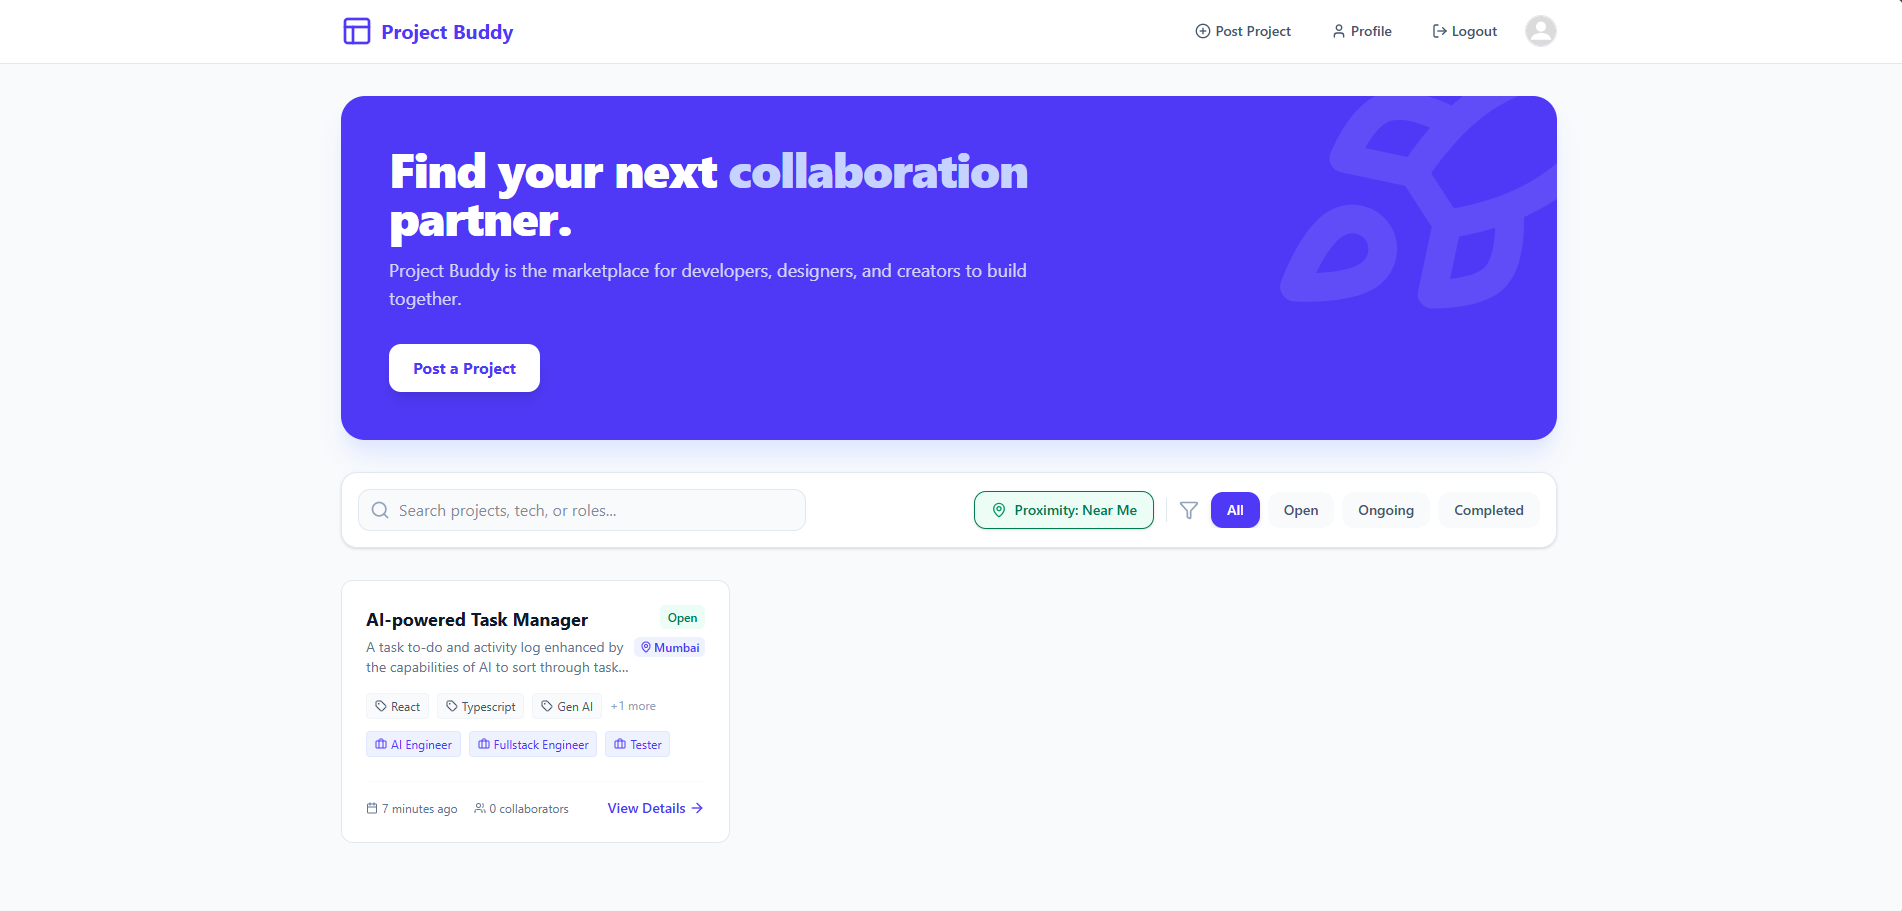
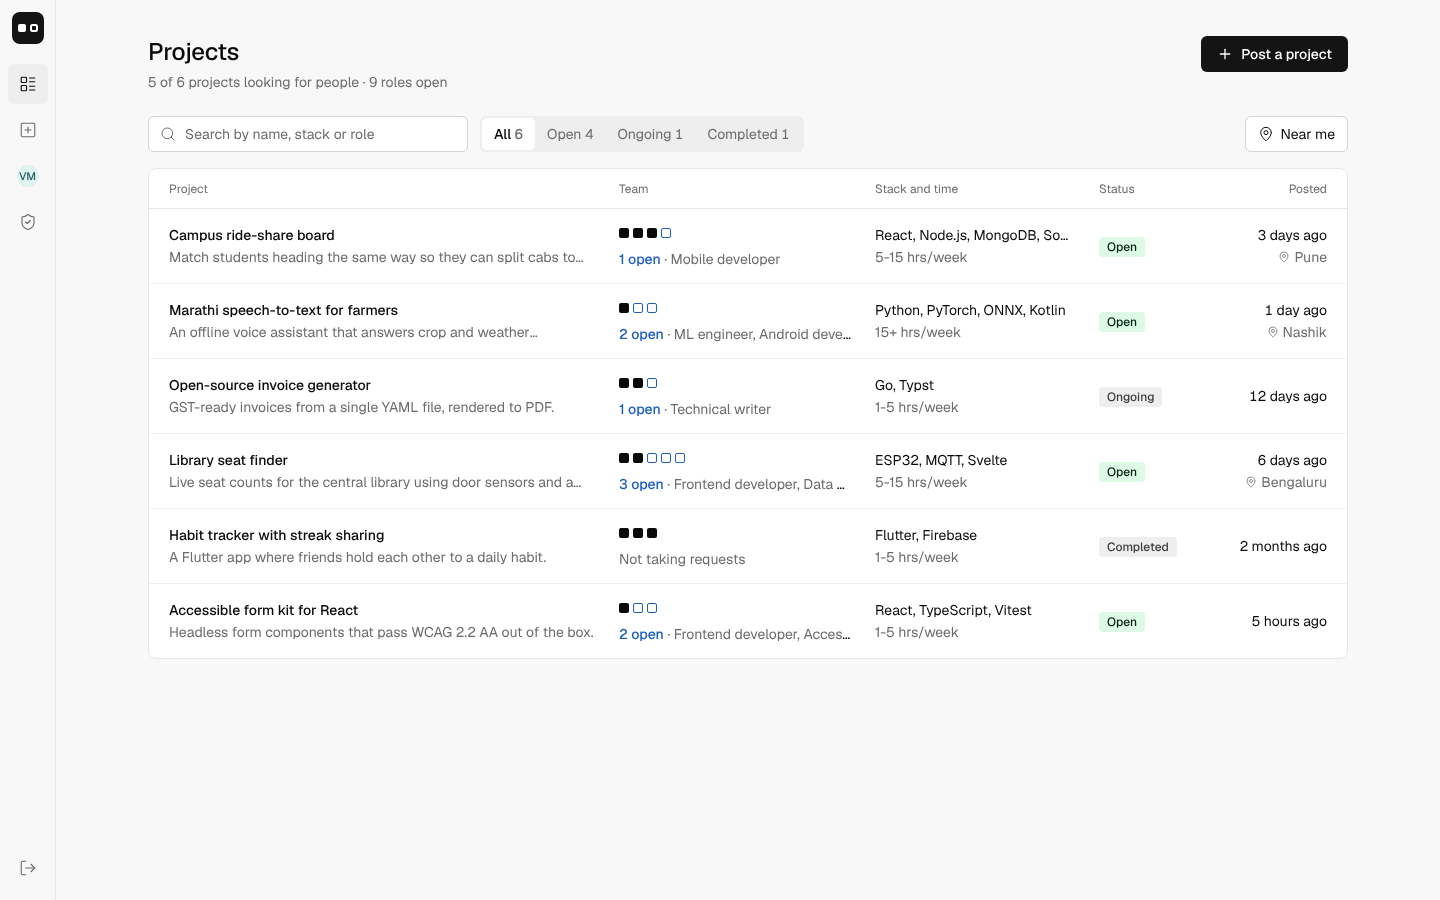
Update README for the redesign
- Replace screenshots with the new interface and add sign-in and phone views
- Describe the team panel, requests to join, progress log and admin page
- Correct details that had drifted: Socket.IO rather than native
  WebSockets, photo upload from a file, search and filter options,
  registration rate limit, and the frontend stack

diff --git a/README.md b/README.md
@@ -1,200 +1,178 @@
 # Project Buddy
 
-A full-stack developer collaboration platform for discovering projects,
-finding collaborators, communicating in real time, and tracking project
-progress.
+A full-stack collaboration platform where developers post side projects,
+find people to build them with, talk in real time, and track progress.
 
 **Live Demo:** https://projectbuddy-dzn3.onrender.com
 
 **GitHub:** https://github.com/VirajM723/ProjectBuddy
 
+![Project list](README_assets/dashboard.png)
+
 ------------------------------------------------------------------------
 
 ## Overview
 
-Project Buddy is a web application designed to help developers connect
-and collaborate on software projects. Users can create projects, find
-collaborators, communicate through project-specific chat, manage
-milestones, and track contributions from a single platform.
+Project Buddy helps developers connect and collaborate on software
+projects. Owners post a project with the roles they need; other users
+browse the list, ask to join, and once accepted, work together through a
+project chat and a shared progress log. Every contribution feeds a
+profile heatmap, and skills can be endorsed by teammates.
 
-The application also includes location-based project discovery, activity
-tracking, and backend protections against spam and abuse.
+The app also supports location-based discovery, and the backend
+protects itself against spam and abuse with rate limiting.
 
 ## Features
 
 ### Authentication
 
-Project Buddy uses JWT-based authentication to secure user sessions.
-
--   Register and log in using email and password
--   Secure password hashing with bcrypt
--   Protected routes using JWT
--   Role-based authorization
--   Default profile picture assigned during registration
--   Upload a custom profile picture at any time
+-   Register and sign in with email and password
+-   Passwords hashed with bcrypt
+-   JWT-protected API routes, with the session restored on page reload
+-   Role-based access (members and admins)
 
 ------------------------------------------------------------------------
 
-### Project Management
+### Projects
 
-Create projects and manage collaborators from a single dashboard.
-
--   Create and edit projects
--   Add descriptions, required skills, tech stack, and commitment level
--   Search projects by title, description, creator, tags, or
-    technologies
--   Filter projects based on skills, tech stack, location, and
-    commitment
--   Browse projects posted by the community
+-   Post and edit projects: title, summary, Markdown description, tech
+    stack, the roles you need, weekly time commitment and project type
+-   Search by title, summary, tech stack or role
+-   Filter by status (open, ongoing, completed) and by distance with
+    **Near me**
+-   Every project shows its team at a glance: filled squares for
+    members, outlined squares for roles nobody has taken yet
 
 ------------------------------------------------------------------------
 
-### Collaboration System
+### Joining a Team
 
-Users can apply to projects and project owners can manage incoming
-applications.
-
--   Send collaboration requests
--   Accept or reject applicants
--   Manage project members
--   Keep track of team composition
-
-------------------------------------------------------------------------
-
-### Real-Time Project Chat
-
-Each project includes a dedicated chat room powered by native
-WebSockets.
-
--   Instant messaging between collaborators
--   Project-specific conversations
--   Messages are stored in MongoDB for future access
--   Automatically synchronizes conversations across connected users
+-   Ask to join with a message to the owner
+-   Owners see waiting requests at the top of the project page and can
+    accept or decline them
+-   The team panel lists the owner, each member with their role, and the
+    roles that are still open
+-   Members set their own role on each project from their profile
 
 ------------------------------------------------------------------------
 
-### Live Activity Feed
+### Team Chat
 
-Every project maintains an activity feed that updates in real time.
+Each project has a chat room for its owner and members, built on
+Socket.IO.
 
-The feed records important events such as:
+-   Messages arrive instantly for everyone on the team
+-   Messages are stored in MongoDB, so history survives reloads
+-   Falls back to refreshing every few seconds if the live connection
+    drops
 
--   New collaborators joining
--   Project updates
--   Milestone completion
-
-This allows team members to stay informed without manually checking
-project details.
-
-------------------------------------------------------------------------
-
-### Project Milestones
-
-Projects can be divided into milestones to organize development.
-
-Users can:
-
--   Create milestones
--   Assign milestones to collaborators
--   Mark milestones as completed
--   Track overall project progress
--   View milestone history through activity logs
+![Team chat](README_assets/chat.png)
 
 ------------------------------------------------------------------------
 
-### Contribution Tracking
+### Progress Log
 
-Project Buddy includes a GitHub-style contribution heatmap built using
-D3.js.
-
-The heatmap provides a visual overview of user activity by tracking:
-
--   Daily contributions
--   Project participation
--   Development consistency
+Team members log milestones and finished tasks on the project's
+**Progress** tab. Joining a team is recorded there automatically, so the
+log doubles as the project's history.
 
 ------------------------------------------------------------------------
 
-### User Profiles
+### Contribution Heatmap
 
-Every user has a public profile showcasing their work and activity.
+A GitHub-style heatmap, drawn with D3.js, shows each person's
+contributions per day over the last year.
 
-Profiles include:
+![Contribution heatmap](README_assets/heatmap.png)
 
--   Bio
--   Technical skills
--   Projects
--   Contribution heatmap
--   Activity history
--   External links
--   Profile picture
+------------------------------------------------------------------------
 
-New accounts automatically receive a default profile image until one is uploaded via URL.
+### Profiles
+
+Every user has a public profile with:
+
+-   Bio, skills and links (GitHub, LinkedIn, portfolio)
+-   A phone number that only collaborators can see
+-   Contribution, active-day, endorsement and project counts
+-   The contribution heatmap
+-   Projects they own and teams they belong to
+-   A profile photo, uploaded from a file (resized in the browser) or
+    linked by URL; people without one get their initials
 
 ------------------------------------------------------------------------
 
 ### Skill Endorsements
 
-Users can endorse the technical skills of other developers.
-
-These endorsements help showcase experience and improve profile
-credibility.
+Users can endorse each other's skills. Each skill on a profile shows who
+endorsed it and how many times.
 
 ------------------------------------------------------------------------
 
-### Location-Based Project Discovery
+### Location-Based Discovery
 
-Projects are indexed using H3 spatial indexing to support location-aware
-discovery.
+Projects can carry an opt-in location: a city name and a point rounded
+to about 10 km. Locations are indexed with H3, so **Near me** finds
+projects in the surrounding area and works together with search and
+status filters.
 
-Users can:
+------------------------------------------------------------------------
 
--   Filter projects near their location
--   Discover local collaboration opportunities
--   Combine location filters with existing search and filter options
+### Admin
+
+Admins get a page listing every member and project, with the option to
+delete either. Deleting a member also removes their projects, requests
+and activity.
 
 ------------------------------------------------------------------------
 
 ### Rate Limiting & Spam Prevention
 
-The backend uses `express-rate-limit` to prevent abuse and protect
-application resources.
+The backend uses `express-rate-limit` to prevent abuse:
 
-```md
-Configured limits:
+-   Sign in: 10 attempts per 15 minutes
+-   Registration: 10 accounts per hour
+-   Posting projects: 5 per day
+-   Requests to join: 10 per hour
+-   All API calls: 300 per minute
 
-- Login / Register: 10 attempts per 15 minutes per IP
-- Project Creation: Maximum 5 projects per day per user
-- Collaboration Requests: Maximum 10 requests per hour per user
+------------------------------------------------------------------------
 
-These limits help prevent spam, brute-force attacks, and excessive API usage while maintaining a smooth user experience.
-```
+### Design
 
-
-These limits reduce spam, brute-force attacks, and excessive API usage
-while maintaining a smooth user experience.
+The interface uses a neutral palette with one accent colour reserved for
+data (open roles and activity), the Geist typeface, and layouts built
+for both desktop and phone: an icon rail on wide screens, a bottom tab
+bar on phones.
 
 ## Screenshots
 
-![](README_assets/dashboard.png)
+**Project page:** team panel, waiting requests, and the description
 
-![](README_assets/project.png)
+![Project page](README_assets/project.png)
 
-![](README_assets/create-project.png)
+**Profile**
 
-![](README_assets/chat.png)
+![Profile](README_assets/profile.png)
 
-![](README_assets/heatmap.png)
+**Posting a project**
 
-![](README_assets/profile.png)
+![Post a project](README_assets/create-project.png)
+
+**Sign in:** shows projects currently looking for people
+
+![Sign in](README_assets/sign-in.png)
+
+**On a phone**
+
+<img src="README_assets/mobile.png" alt="Project list on a phone" width="320" />
 
 ## Tech Stack
 
-**Frontend** - React - TypeScript - Vite - Tailwind CSS - Framer
-Motion - Axios - D3.js
+**Frontend:** React, TypeScript, Vite, Tailwind CSS, Axios, D3.js,
+Socket.IO client, react-markdown, Lucide icons
 
-**Backend** - Node.js - Express.js - MongoDB - Mongoose - JWT - Native
-WebSockets - bcrypt - express-rate-limit - H3.js
+**Backend:** Node.js, Express, MongoDB, Mongoose, JWT, Socket.IO,
+bcrypt, express-rate-limit, H3
 
 ## Installation
 
@@ -220,6 +198,8 @@ Start the development server.
 npm run dev
 ```
 
+Type-check the project with `npm run lint`.
+
 ### Deploying to Render
 
 -   Build command: `npm install && npm run build`
@@ -234,15 +214,15 @@ npm run dev
 -   Authentication
 -   Users
 -   Projects
--   Collaboration Requests
--   Milestones
+-   Requests to join
+-   Progress logs
 -   Chat
--   Activity Logs
--   Skill Endorsements
+-   Skill endorsements
+-   Admin
 
 ## Future Improvements
 
 -   Real-time notifications
--   Mobile responsive improvements
+-   Assigning milestones to teammates and marking them done
 -   AI teammate recommendations
 -   Calendar and deadline management
